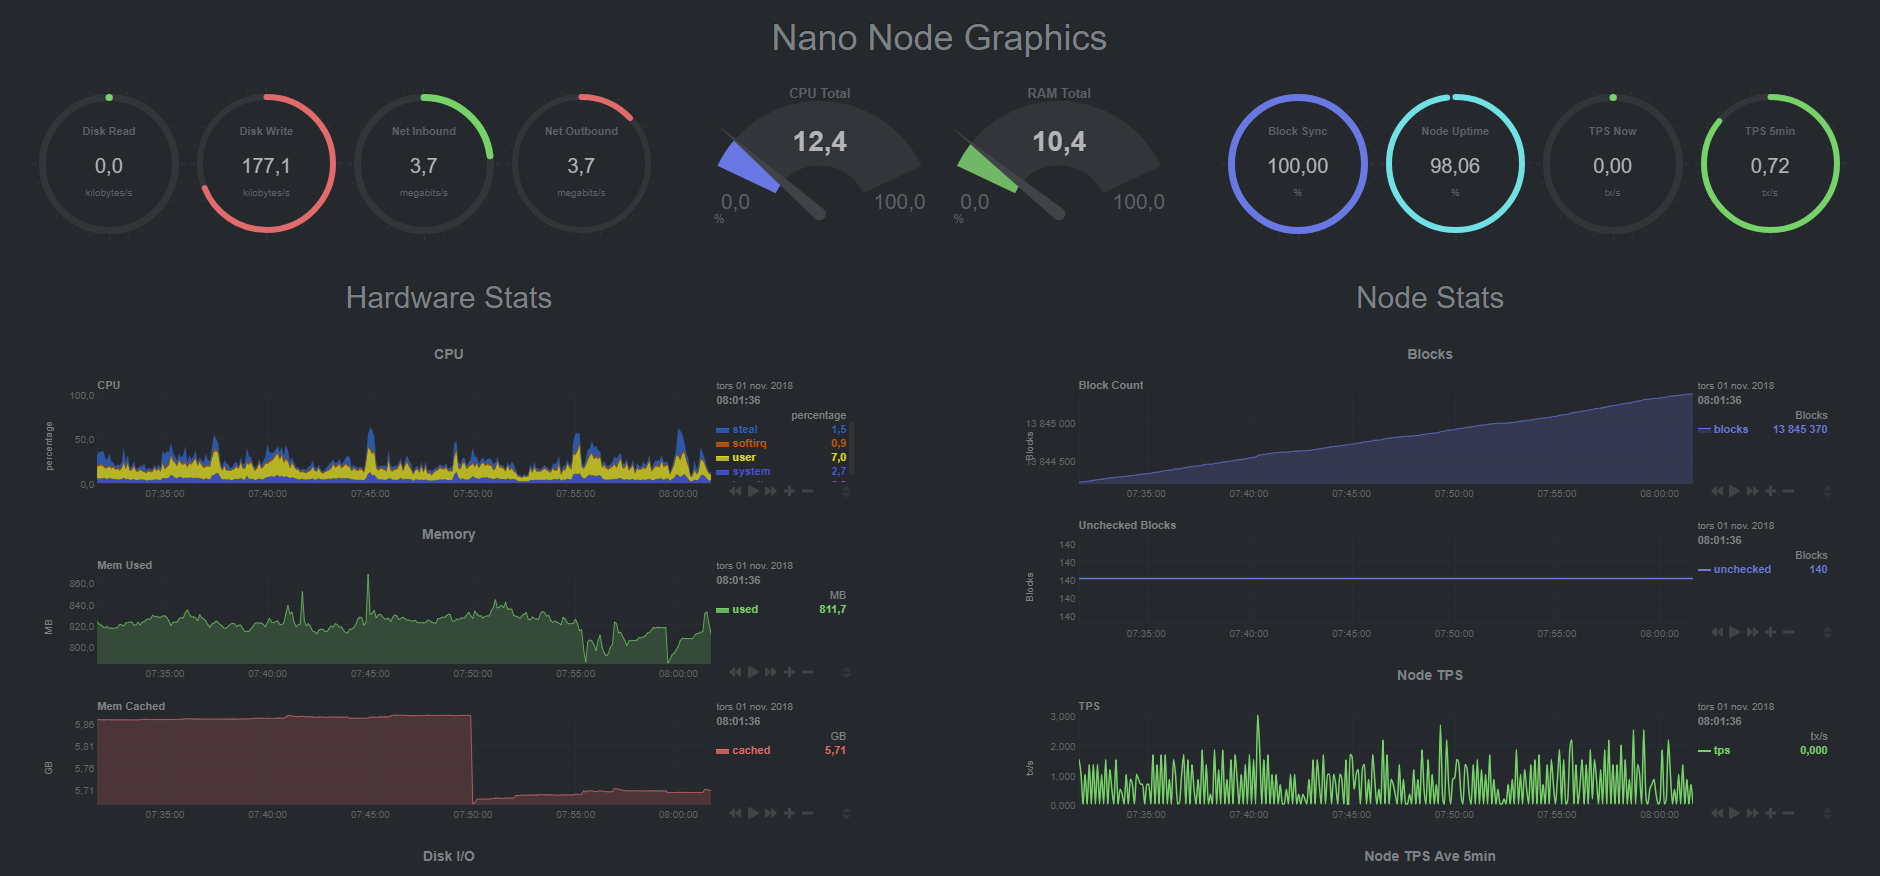
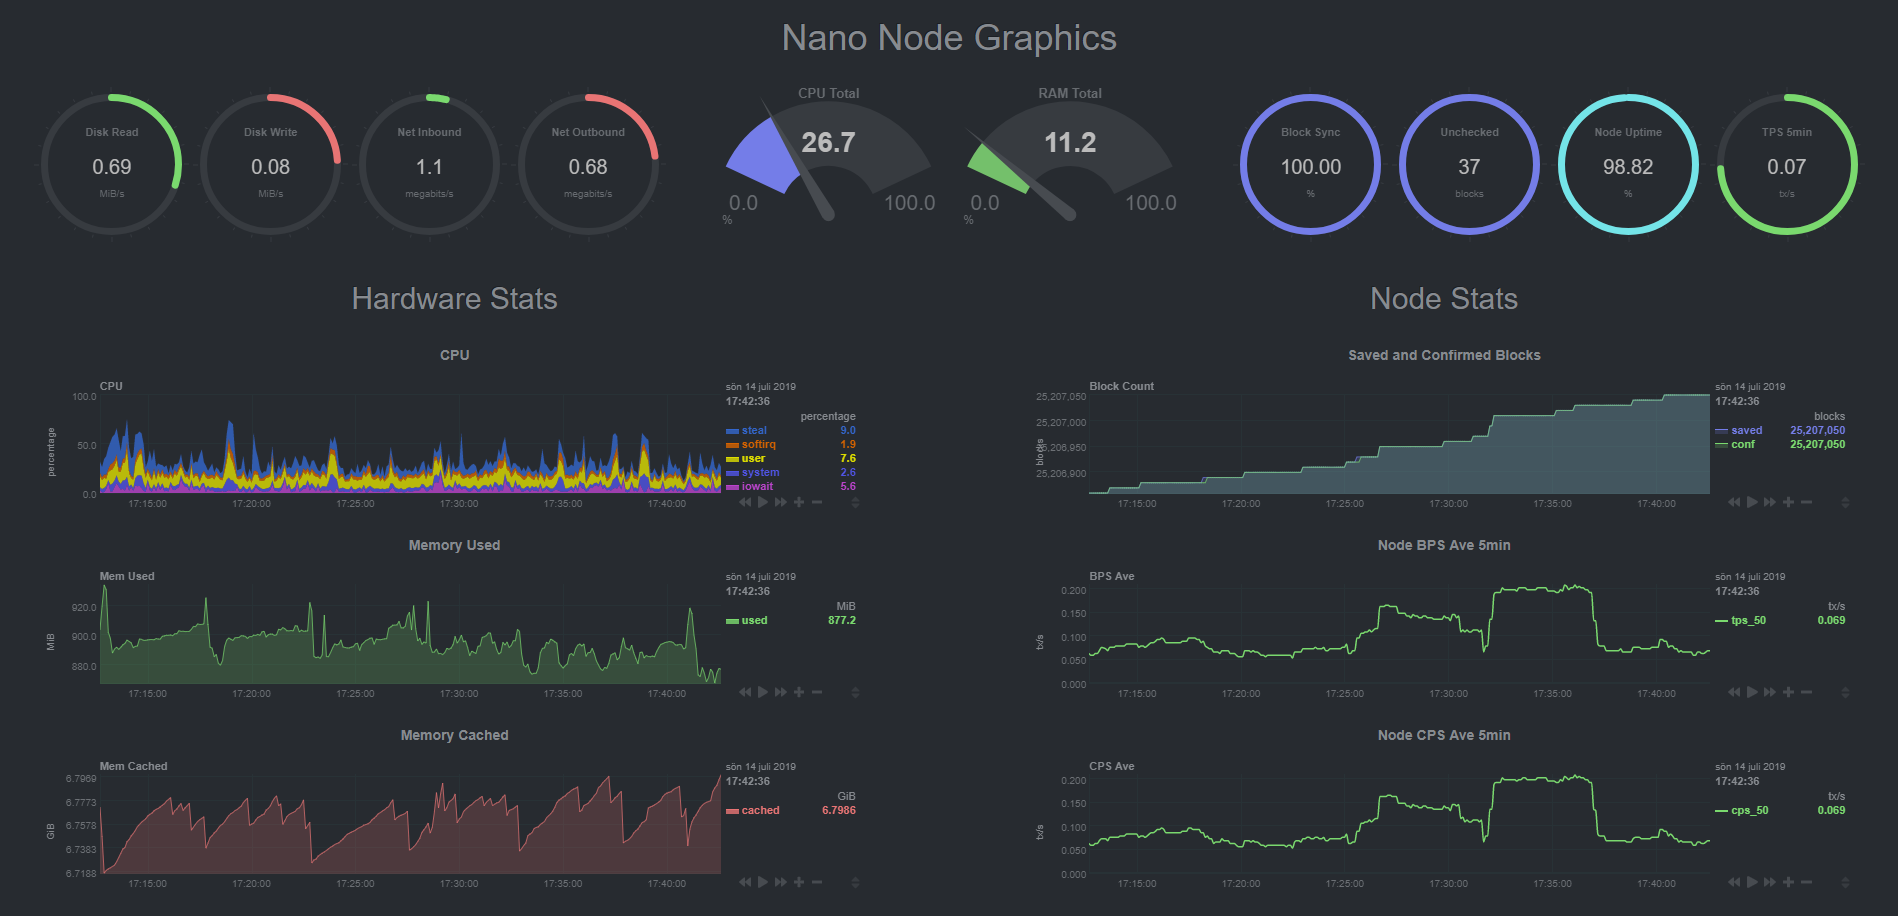
New chart for CPS and Cemented

diff --git a/src/nano.html b/src/nano.html
@@ -26,7 +26,7 @@
 // this section has to appear before loading dashboard.js
 
 // Select a theme.
-// uncomment on of the two themes:
+// uncomment one of the two themes:
 
 //var netdataTheme = 'default'; // this is white
 var netdataTheme = 'slate'; // this is dark
@@ -176,6 +176,16 @@ setTimeout(function(){
 				data-points="300"
 				data-colors="#747de8"
 			></div>
+			 <div data-netdata="nanonode_local.unchecked"
+                                data-title="Unchecked"
+                                data-decimal-digits="0"
+                                data-units="blocks"
+                                data-chart-library="easypiechart"
+                                data-width="22%"
+                                data-before="0"
+                                data-points="300"
+                                data-colors="#747de8"
+                        ></div>
 			<div data-netdata="nanonode_local.uptime"
 				data-title="Node Uptime"
 				data-easypiechart-max-value="100"
@@ -186,16 +196,6 @@ setTimeout(function(){
 				data-after="-300"
 				data-points="300"
 				data-colors="#74e4e8"
-			></div>
-			<div data-netdata="nanonode_local.tps"
-				data-title="TPS Now"
-				data-decimal-digits="2"
-				data-units="tx/s"
-				data-chart-library="easypiechart"
-				data-width="22%"
-				data-after="-300"
-				data-points="300"
-				data-colors="#7ad96e"
 			></div>
 			<div data-netdata="nanonode_local.tps_50"
 				data-title="TPS 5min"
@@ -230,7 +230,7 @@ setTimeout(function(){
 		
 		<div class="div-graph">
 			<div class="div-header">
-				<b>Memory</b>
+				<b>Memory Used</b>
 			</div>
 			<div class="div-graph-data">
 				<div data-netdata="system.ram"
@@ -245,6 +245,9 @@ setTimeout(function(){
 					data-colors="#7ad96e #7ad96e #7ad96e #7ad96e"
 				></div>
 			</div>
+			<div class="div-header">
+                                <b>Memory Cached</b>
+                        </div>
 			<div class="div-graph-data">
 				<div data-netdata="system.ram"
 					data-dimensions="cached"
@@ -301,7 +304,7 @@ setTimeout(function(){
 		<h2>Node Stats</h2>
 		<div class="div-graph">
 			<div class="div-header">
-				<b>Blocks</b>
+				<b>Saved and Confirmed Blocks</b>
 			</div>
 			<div class="div-graph-data">
 				<div data-netdata="nanonode_local.block_count"
@@ -313,23 +316,7 @@ setTimeout(function(){
 					data-width="90%"
 					data-height="100%"
 					data-after="-1800"
-					data-colors="#747de8"
-				></div>
-			</div>
-		</div>
-		
-		<div class="div-graph">
-			<div class="div-graph-data">
-				<div data-netdata="nanonode_local.unchecked"
-					data-title="Unchecked Blocks"
-				        data-decimal-digits="0"
-					data-common-max="nanonode_local.unchecked"
-					data-common-min="nanonode_local.unchecked"
-					data-chart-library="dygraph"
-					data-width="90%"
-					data-height="100%"
-					data-after="-1800"
-					data-colors="#747de8"
+					data-colors="#747de8 #7ad96e"
 				></div>
 			</div>
 		</div>
@@ -355,11 +342,11 @@ setTimeout(function(){
 		</div>-->
 		<div class="div-graph">
 			<div class="div-header">
-				<b>Node TPS Ave 5min</b>
+				<b>Node BPS Ave 5min</b>
 			</div>
 			<div class="div-graph-data">
 				<div data-netdata="nanonode_local.tps_50"
-					data-title="TPS Ave"
+					data-title="BPS Ave"
 					data-decimal-digits="3"
 					data-common-max="nanonode_local.tps_50"
 					data-common-min="nanonode_local.tps_50"
@@ -372,6 +359,25 @@ setTimeout(function(){
 				></div>
 			</div>
 		</div>
+		<div class="div-graph">
+                        <div class="div-header">
+                                <b>Node CPS Ave 5min</b>
+                        </div>
+                        <div class="div-graph-data">
+                                <div data-netdata="nanonode_local.cps_50"
+                                        data-title="CPS Ave"
+                                        data-decimal-digits="3"
+                                        data-common-max="nanonode_local.cps_50"
+                                        data-common-min="nanonode_local.cps_50"
+                                        data-dygraph-valuerange="0, data-common-max"
+                                        data-chart-library="dygraph"
+                                        data-width="90%"
+                                        data-height="100%"
+                                        data-after="-1800"
+                                        data-colors="#7ad96e"
+                                ></div>
+                        </div>
+                </div>
 		<div class="div-graph">
                         <div class="div-header">
                                 <b>Block Confirmation Times</b>
@@ -413,7 +419,7 @@ setTimeout(function(){
 	</div>
 	<div class="div-footer">
 		<p class="footer-text">
-			<span><strong>Version 1.30 - <a href="https://github.com/Joohansson/NanoNodeGraphics">Github Source</a></strong></span><br/>
+			<span><strong>Version 1.40 - <a href="https://github.com/Joohansson/NanoNodeGraphics">Github Source</a></strong></span><br/>
 			<span><strong>Developer Nano Donation:</strong> xrb_1gur37mt5cawjg5844bmpg8upo4hbgnbbuwcerdobqoeny4ewoqshowfakfo</span>
 		</p>
 	</div>

diff --git a/src/nanonode.chart.py b/src/nanonode.chart.py
@@ -23,14 +23,21 @@ priority = 1000 #where it will appear on the main stat page and menu (60000 will
 
 # charts order (can be overridden if you want less charts, or different order)
 
-#ORDER = ['block_count', 'unchecked', 'peers', 'tps', 'tps_50', 'confirmations', 'weight', 'delegators', 'block_sync', 'account_balance', 'uptime']
-ORDER = ['block_count', 'unchecked', 'peers', 'tps', 'tps_50', 'confirmations', 'block_sync', 'uptime']
+#ORDER = ['block_count', 'cemented', 'unchecked', 'peers', 'tps', 'tps_50', 'cps', 'cps_50', 'confirmations', 'weight', 'delegators', 'block_sync', 'account_balance', 'uptime']
+ORDER = ['block_count', 'unchecked', 'peers', 'tps', 'tps_50', 'cps', 'cps_50', 'confirmations', 'block_sync', 'uptime']
 
 CHARTS = {
     'block_count': {
         'options': [None, 'Block Count', 'blocks', 'Blocks','nano.blocks', 'area'],
         'lines': [
-            ["blocks", None, 'absolute']
+            ["saved_blocks", "saved", None, 'absolute'],
+            ["confirmed_blocks", "conf", None, 'absolute']
+        ]
+    },
+    'cemented': {
+        'options': [None, 'Cemented Blocks', 'blocks', 'Cemented','nano.cemented', 'area'],
+        'lines': [
+            ["cemented", None, 'absolute']
         ]
     },
     'unchecked': {
@@ -76,15 +83,27 @@ CHARTS = {
         ]
     },
     'tps': {
-        'options': [None, 'Node TPS', 'tx/s', 'TPS','nano.tps', 'line'],
+        'options': [None, 'Node BPS', 'tx/s', 'BPS','nano.tps', 'line'],
         'lines': [
             ["tps", None, 'absolute',1 , 1000]
         ]
     },
     'tps_50': {
-        'options': [None, 'Node TPS Ave', 'tx/s', 'TPS Ave 5 min','nano.tps50', 'line'],
+        'options': [None, 'Node BPS Ave', 'tx/s', 'BPS Ave 5 min','nano.tps50', 'line'],
         'lines': [
             ["tps_50", None, 'absolute', 1, 1000]
+        ]
+    },
+    'cps': {
+        'options': [None, 'Node CPS', 'tx/s', 'CPS','nano.cps', 'line'],
+        'lines': [
+            ["cps", None, 'absolute',1 , 1000]
+        ]
+    },
+    'cps_50': {
+        'options': [None, 'Node CPS Ave', 'tx/s', 'CPS Ave 5 min','nano.cps50', 'line'],
+        'lines': [
+            ["cps_50", None, 'absolute', 1, 1000]
         ]
     },
     'confirmations': {
@@ -108,6 +127,8 @@ class Service(UrlService):
         self.definitions = CHARTS
         self.blocks_old = 0 #block count previous poll
         self.tps_old = deque([0]*50) #tps history last 50 polls, init with 50 zeroes
+        self.cemented_old = 0 #cemented count previous poll
+        self.cps_old = deque([0]*50) #cps history last 50 polls, init with 50 zeroes
 
     def _get_data(self):
         """
@@ -123,7 +144,7 @@ class Service(UrlService):
             return None
 
         #Keys to read from api data with the first entry is keys used by the charts
-        apiKeys = [('blocks','currentBlock',int,1),('unchecked','uncheckedBlocks',int,1),('peers','numPeers',int,1),
+        apiKeys = [('saved_blocks','currentBlock',int,1),('confirmed_blocks','cementedBlocks',int,1),('unchecked','uncheckedBlocks',int,1),('peers','numPeers',int,1),
             ('weight','votingWeight',float,1000),('block_sync','blockSync',float,1000),('account_balance','accBalanceMnano',float,1000)]
         apiKeysNinja = [('delegators','delegators',int,1),('uptime','uptime',float,1000)]
         apiKeysConf = [('average','average',int,1),('perc_50','percentile50',int,1),('perc_75','percentile75',int,1),('perc_90','percentile90',int,1),('perc_95','percentile95',int,1),('perc_99','percentile99',int,1)]
@@ -160,18 +181,32 @@ class Service(UrlService):
         #except Exception:
         #    r['uptime'] = 0
 
-        #Calculate tps based on previous block read
+        #Calculate bps based on previous block read
         if (self.blocks_old == 0):
-            self.blocks_old = r['blocks'] #Initialize with block count first time to not get large tps before running one iteration
-        r['tps'] = 1000 * (r['blocks']-self.blocks_old) / update_every #use previous iteration (multiply 1000 and divide with 1000 in chart to get decimals)
-        self.blocks_old = r['blocks'] #update for next iteration
+            self.blocks_old = r['saved_blocks'] #Initialize with block count first time to not get large tps before running one iteration
+        r['tps'] = 1000 * (r['saved_blocks']-self.blocks_old) / update_every #use previous iteration (multiply 1000 and divide with 1000 in chart to get decimals)
+        self.blocks_old = r['saved_blocks'] #update for next iteration
         self.tps_old.append(r['tps'])
         self.tps_old.popleft()
 
-        #Calculate tps past 50 iterations based on average tps
+        #Calculate bps past 50 iterations based on average tps
         sum = 0
         for tps in self.tps_old:
             sum = sum + tps
         r['tps_50'] = sum / len(self.tps_old) 
+
+        #Calculate cps based on previous block read
+        if (self.cemented_old == 0):
+            self.cemented_old = r['confirmed_blocks'] #Initialize with block count first time to not get large tps before running one iteration
+        r['cps'] = 1000 * (r['confirmed_blocks']-self.cemented_old) / update_every #use previous iteration (multiply 1000 and divide with 1000 in chart to get decimals)
+        self.cemented_old = r['confirmed_blocks'] #update for next iteration
+        self.cps_old.append(r['cps'])
+        self.cps_old.popleft()
+
+        #Calculate tps past 50 iterations based on average tps
+        sum = 0
+        for cps in self.cps_old:
+            sum = sum + cps
+        r['cps_50'] = sum / len(self.cps_old)
 
         return r or None

diff --git a/README.md b/README.md
@@ -7,7 +7,7 @@ Nano Node Graphics is a simplified dashboard for your nano node based on netdata
 * [Light Theme Preview 2](https://github.com/Joohansson/NanoNodeGraphics/blob/master/img/light2.PNG?raw=true)
 
 ## Current Version
-Current version is 1.20. Check your nano.html if this one is newer, continue with **[Update procedure](#update-nanonodegraphics)** below.
+Current version is 1.40 (2019-07-14). Check your nano.html if this one is newer, continue with **[Update procedure](#update-nanonodegraphics)** below.
 
 ## Requirements
 * Netdata application [Source](https://github.com/netdata/netdata)
